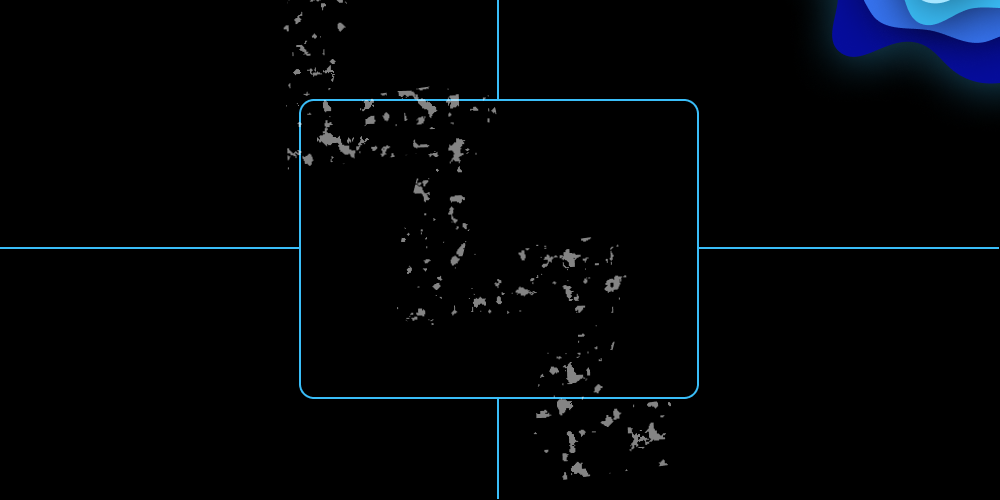
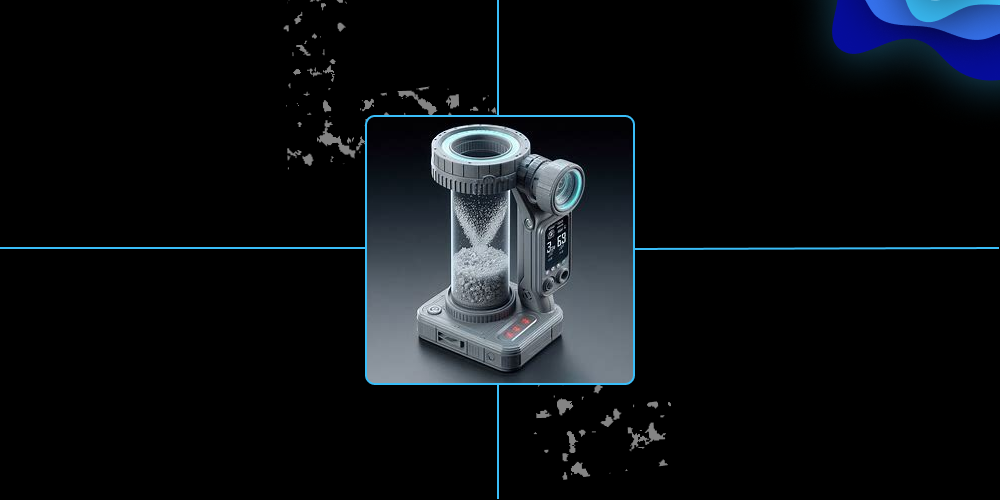
section tecnologia/protoripo feitas

diff --git a/index.html b/index.html
@@ -6,6 +6,8 @@
     <link rel="stylesheet" href="styles/styleHome.css">
     <link rel="stylesheet" href="styles/styleSection2.css">
     <link rel="stylesheet" href="styles/styleProblema.css">
+    <link rel="stylesheet" href="styles/stylePrototipo.css">
+    <link rel="stylesheet" href="styles/styleTecnologia.css">
     <title>Landing Page Global Solution</title>
 </head>
 <body>
@@ -15,9 +17,9 @@
                 <li class="navegacao--menu">
                     <a href="/index.html#HOME">HOME</a>
                     <a href="/index.html#PROBLEMA">PROBLEMA</a>
-                    <a href="/index.html#SECTION3">SECTION 3</a>
-                    <a href="/index.html#SECTION4">SECTION 4</a>
-                    <a href="/index.html#SECTION5">SECTION 5</a>
+                    <a href="/index.html#TECNOLOGIA">TECNOLOGIA</a>
+                    <a href="/index.html#PROTOTIPO">PROTÓTIPO</a>
+                    <a href="/index.html#SOLUCAO">SOLUCAO</a>
                     <a href="/index.html#SECTION6">SECTION 6</a>
                 </li>
             </div>  
@@ -45,15 +47,35 @@
             </div>
         </section>
         <section class = "container_tecnologia" id= "TECNOLOGIA">
-            <h1>slider com <br> explicação do problema</h1 >
+            <div class="tecnologia_content">
+                <h3 >Utilizando como base para nosso protótipo, os estudos do cientista <strong>Fionn Ferreira</strong>, que aborda uma alternativa tangível, sustentável e escalável, com uma solução para retirar micro e nano plásticos dos oceanos uma mistura química de <strong>pó de magnetita</strong> (imãs) e <strong>óleo vegetal</strong>, atraindo os micro plásticos por força magnética os separando da agua. <br>
+                Desenvolvemos um dispositivo que não só será capaz de separar os micro plásticos da água mas tambem detectar a qualidade da água, informar a situação do local a qual o resíduo foi coletado, armazenar os resíduos e gerar um banco de dados com diversas informações sobre a "saúde" da agua e a vida em volta por meio do sensor que acompanha o equipamento.
+                </h3>
+            </div>
         </section>
-        <section class = "conatiner_data" id = "SECTION3">
-            <h1 >Dados</h1>
+        <section class = "conatiner_prototipo" id = "PROTOTIPO">
+            <div class="prototipo_left">
+                <div class="prototipo_left-top">
+                    <h2>Filtro</h2>
+                    <p>O filtro é a primeira etapa do funil. <br> ele utiliza uma tecnologia eletromagnectica por meio de uma mistura de pó de magnetica e oleo vegetal para atrair os micro plasticos.</p>
+                </div>
+                <div class="prototipo_left-bottom">
+                    <h2>Visor</h2>
+                    <p>O visor é a parte intermediária do funil. Ele permite visualizar os dados filtrados de forma mais detalhada. mantendo um histórico dos locais com maiores indices de microplásticos e residuos coletados.</p>
+                </div>
+            </div>
+            <div class="prototipo_right">
+                <div class="prototipo_right-top">
+                    <h2>Sensor</h2>
+                    <p>O sensor é a etapa do funil que serve como coleta de dados e monitoramento. Ele monitora continuamente os dados e detecta mudanças no PH agua causadas pelo acumulo de microplásticos.</p>
+                </div>
+                <div class="prototipo_right-bottom">
+                    <h2>Cilindro de Armazenamento</h2>
+                    <p>O Ciindro de Armazenamento é a ultima etapa. Serve como deposituario de todos os residuos coletados.É possivel acoplar outros tamanhos de cilindro no dispositivo.</p>
+                </div>
+            </div> 
         </section>
-        <section class = "container_solution" id = "SECTION4">
-            <h1>solution</h1> 
-        </section>
-        <section class = "container_solution_2" id = "SECTION5">
+        <section class = "container_solucao" id = "SOLUCAO">
             <h1> galery whith slider</h1>
         </section>
         <section class = "container_solution_3" id = "SECTION6">

diff --git a/styles/stylePrototipo.css b/styles/stylePrototipo.css
@@ -1,0 +1,75 @@
+.conatiner_prototipo{
+    width: 100%;
+    height: 100vh;
+    overflow: hidden;
+    display: flex;
+    background: black; 
+    background-image: url("/image/bg_pagetecnologia2.png");
+    background-size:cover;
+    background-repeat: no-repeat;
+    background-position: center;
+    background-position-x: 1.3px;
+    
+}
+
+.conatiner_prototipo h2{
+    color: var(--color-strong);
+    font-family: var(--Font-family-primary);
+    font-size: 2rem;
+    font-weight: bold;
+}
+
+.conatiner_prototipo p{
+    color: white;
+    font-family: var(--Font-family-primary);
+    font-size: 1rem;
+    font-weight: 500;
+
+}
+
+.conatiner_prototipo{
+    justify-content: space-between;
+}
+
+.prototipo_left{
+    width: 50%;
+    padding-right: 20%;
+    margin: 100px 0 20px 20px; 
+
+}
+.prototipo_left-top{
+    height: 50%;
+    width: 100%;
+    
+    
+}
+
+.prototipo_left-bottom{
+    height: 50%;
+    width: 100%;
+    margin-top: 50px;
+    
+}
+
+.prototipo_right{
+    width: 50%;
+    padding-left: 20%;
+    margin: 100px 20px 20px 0 ; 
+}
+
+.prototipo_right-top{
+    height: 50%;
+    width: 100%;
+    
+    
+}
+
+.prototipo_right-bottom{
+    height: 50%;
+    width: 100%;
+    margin-top: 50px;
+
+    
+}
+
+

diff --git a/styles/styleTecnologia.css b/styles/styleTecnologia.css
@@ -1,0 +1,36 @@
+:root{
+    --color-strong: #3ABEF9;
+}
+
+.container_tecnologia{
+    width: 100%;
+    height: 100vh;
+    overflow: hidden;
+    display: flex;
+    position: relative;
+    z-index: 3;
+    justify-content: center;
+    align-items: center;
+    background: black; 
+    background-image: url("/image/bg_pagetecnologia1.png");
+    background-size: cover;
+    background-repeat: no-repeat;
+    background-position: center;
+
+}
+
+.tecnologia_content{
+    width: 80% ;
+}
+
+.tecnologia_content h3{
+    color: white;
+    font-size: 1.5rem;
+    font-weight: bold;
+    font-family: var(--Font-family-primary);
+    text-align: center;
+}
+
+.tecnologia_content strong{
+   color:var(--color-strong);
+}

diff --git a/styles/styleProblema.css b/styles/styleProblema.css
@@ -1,7 +1,7 @@
 
 
 :root{
-    --color-strong: cyan;
+    --color-strong: #3ABEF9;
 }
 
 
